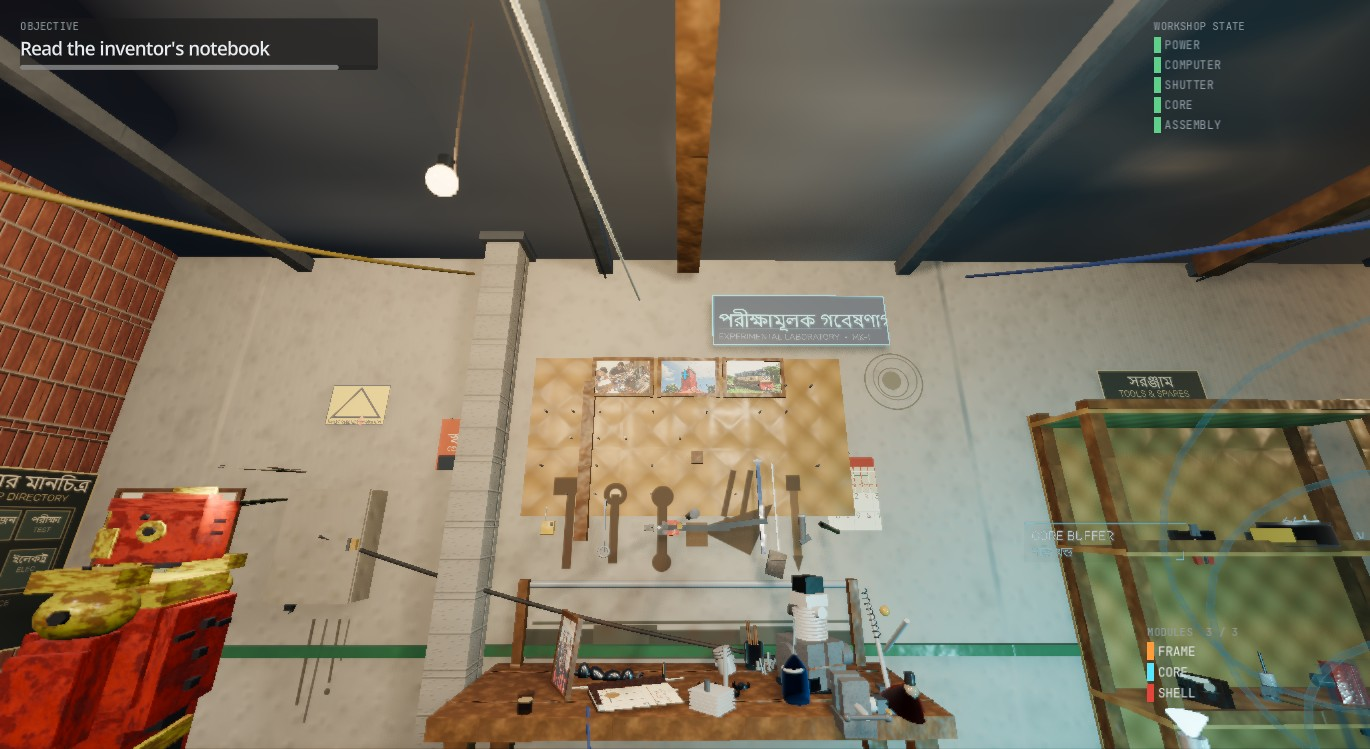
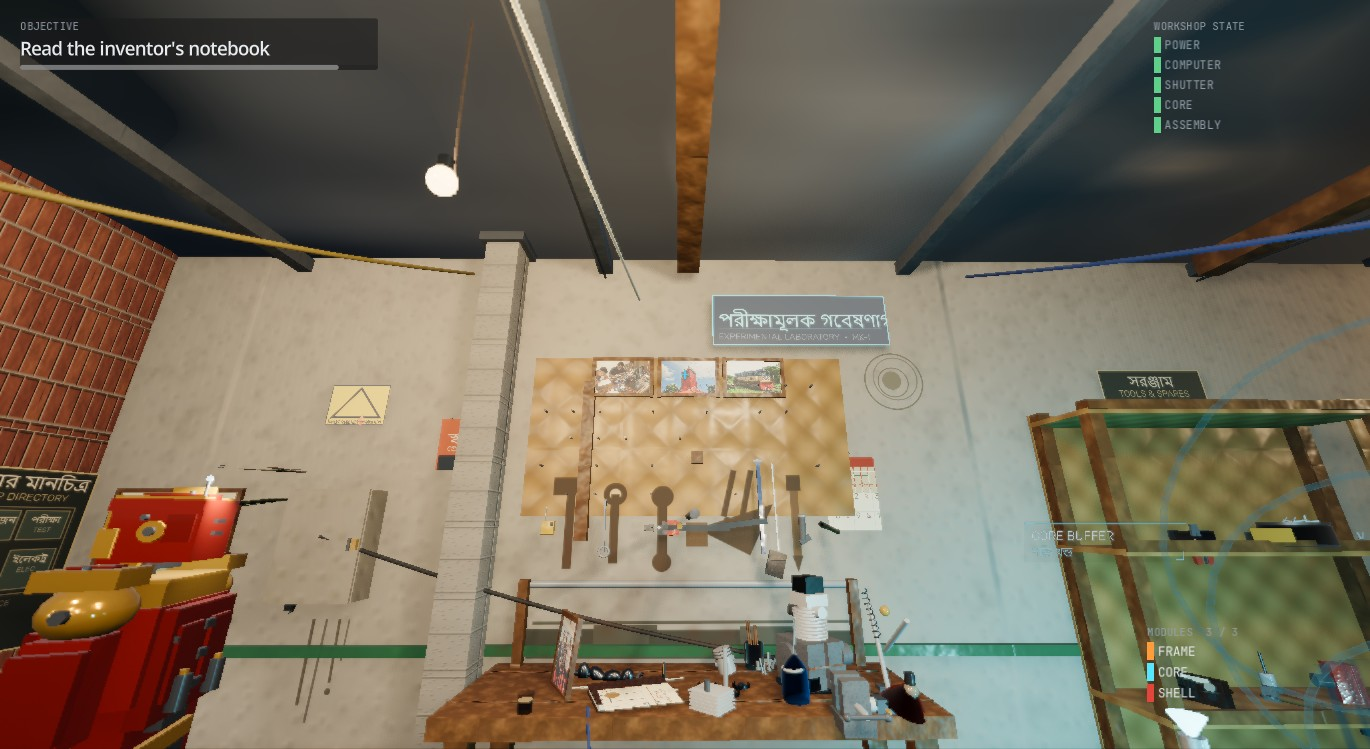
armour: detail passes two + three, and the brand-new glossy finish
The figure asked for more hardware, then for the movie look: brand new,
glossy. Both land here.

Detail passes (+67 meshes, figure 154 -> 221: legs 86 / torso 96 / head 39):
- pass two: a proud sub-panel on each thigh front, vents behind thigh and
  calf, a gold lip around the boot top; the abdomen splits into sub-panels
  under the band lines, a gold waistband over the pelvis, red insets on the
  gold collar and pauldrons, a gold collar lip, back sub-panels, a lit slit
  on each forearm ridge (SlitForearm — on the assembly's own glow ramp); a
  gold brow line split around the crown ridge, chin and jaw bolts, panels
  behind the ears
- pass three: ankle hinge blocks, lit shin dots (SlitShin, also on the
  ramp), hip pods, thigh greebles, utility pouches with studs; a tank and
  brass valve under each back panel, chest intakes, neck conduits, elbow
  end-caps, strapped arm ribs; jaw vents, crown studs, a rear antenna with
  a lit tip; the sternum line turns gold

Brand-new finish (material_library):
- armor_paint(): flat deep paint, metallic 0.6, roughness 0.2, full
  clearcoat (1.0 at 0.08) so every lamp leaves a tight highlight; only the
  paint set's normal map stays, at low scale, for surface life
- armor_dark(): polished alloy, 0.85 metallic at 0.28 roughness
- the sets' colour/roughness/AO maps stay in the repo and documented as
  part of the licensed sets; nothing on a new suit reads as use

Verification: validate 55/55; armor probe 43 OK / 0 FAIL (power-on 2.10x,
[…]

Changed region(s): [[0.0, 0.6449, 0.1839, 1.0]]

diff --git a/docs/ASSET_LICENSES.md b/docs/ASSET_LICENSES.md
@@ -16,7 +16,7 @@ imported**; texture images are runtime-synthesised except two CC0 PBR sets on th
 | Photographs (13) | The notice-wall collage, `assets/textures/wall/` | **Wikimedia Commons, CC BY-SA 4.0**, fetched through the Commons API and resized to 480 px | Every file, author and source page is listed below |
 | Photographs (10) | The two smaller boards — the streets and the working country | **Openverse (Flickr originals), CC0 / CC BY 2.0 / CC BY-SA 2.0**, fetched through the Openverse API, licence-filtered, resized to 480 px | Every file, author and source page is listed below |
 | Texture images | 34 surface sets × 3 channels = 102 images | **Synthesised at runtime** by `TextureFactory` | Original work |
-| Texture images (2 sets, 7 maps) | The armour figure's plates and underlayer, `assets/textures/armor/` | **ambientCG, CC0 1.0**, 1K JPGs resized to 512 at load | PaintedMetal009 (paint) and Metal027 (worn metal) — the sets are CC0, no attribution required, credited here anyway |
+| Texture images (2 sets, 7 maps) | The armour figure's normal detail (the sets' other maps kept in the repo), `assets/textures/armor/` | **ambientCG, CC0 1.0**, 1K JPGs resized to 512 at load | PaintedMetal009 (paint) and Metal027 (worn metal) — the sets are CC0, no attribution required, credited here anyway |
 | Supplied photograph | 1 image (127 KB) | **Provided by the project's author** — the workshop banner hung on the north wall | Author's own work, used with the author's permission |
 | Audio | every clip | **Synthesised at runtime** by `AudioSynth` | Original work; no recorded music and no musical instruments anywhere — the ambience is wind, leaves, sparrows, the street and the rain |
 | Shaders | 6 files | Written for this project | Original work |
@@ -122,19 +122,19 @@ channels — is original work and is described in `docs/GRAPHICS_ALGORITHMS.md` 
 
 The armour figure's materials are the one place where real photographs are used. Two PBR sets from
 [ambientCG](https://ambientcg.com/) — both released under **CC0 1.0** (public domain, no attribution
-required; credited here anyway) — supply the colour, roughness, normal and occlusion maps for the
-plates:
+required; credited here anyway) — supply the figure's normal-detail maps, with the sets' remaining
+maps kept in the repository:
 
 | Set | Asset | Maps used | Role on the figure |
 |---|---|---|---|
-| Paint | `PaintedMetal009` — <https://ambientcg.com/view?id=PaintedMetal009> | `armor_paint_color.jpg`, `armor_paint_rough.jpg`, `armor_paint_normal.jpg`, `armor_paint_ao.jpg` | The red painted plating (`armor_paint()`), tinted at load so the paint reads as the figure's red |
-| Worn metal | `Metal027` — <https://ambientcg.com/view?id=Metal027> | `armor_metal_color.jpg`, `armor_metal_rough.jpg`, `armor_metal_normal.jpg` | The underlayer and exposed machinery (`armor_dark()`) |
+| Paint | `PaintedMetal009` — <https://ambientcg.com/view?id=PaintedMetal009> | `armor_paint_normal.jpg` bound; `armor_paint_color.jpg`, `armor_paint_rough.jpg`, `armor_paint_ao.jpg` in the repo | The red painted plating (`armor_paint()`) — brand new off the stand: flat deep paint over a tight clearcoat, the normal map only for surface life at low scale |
+| Worn metal | `Metal027` — <https://ambientcg.com/view?id=Metal027> | `armor_metal_normal.jpg` bound; `armor_metal_color.jpg`, `armor_metal_rough.jpg` in the repo | The polished underlayer and exposed machinery (`armor_dark()`) |
 
-The realism pass binds the paint set's occlusion map on the primitives' single UV channel
-(`ao_on_uv2` off, `ao_light_affect` 0.2), keeps metallic and roughness as tuned scalars — the sets'
-metalness maps are uniform (all paint / all metal) and would carry no information — and adds a light
-clearcoat as the paint's own sheen. The downloads are 1K JPGs; each is resized to 512 px when loaded
-by `MaterialLibrary._armor_map()`
+The brand-new finish keeps the paint bold and glossy — metallic 0.6, roughness 0.2, clearcoat 1.0 at
+0.08 — so the suit catches every lamp in the room; the underlayer is polished alloy at metallic 0.85.
+The worn maps (paint colour/roughness/AO, metal colour/roughness) are part of the licensed sets but
+are not bound: nothing on a new suit should read as use. The downloads are 1K JPGs; each is resized
+to 512 px when loaded by `MaterialLibrary._armor_map()`
 (`Image.load_from_file()` + resize, no import side files — same loading path as the author's own
 photographs). If a file is missing the material falls back to its flat tint and a warning is printed,
 so the figure never renders untextured.

diff --git a/docs/PROJECT_OVERVIEW.md b/docs/PROJECT_OVERVIEW.md
@@ -155,7 +155,7 @@ recorded in `docs/ASSET_LICENSES.md`.
 | Notice wall | Thirteen community-licensed (CC BY-SA 4.0) photographs of the country — rickshaws, Sadarghat market, a Khulna tea stall, the Sylhet tea gardens, the railway, boats, paddy — pinned crooked to a plywood board on the entrance wall; every file's author and source recorded in `docs/ASSET_LICENSES.md` |
 | Faked wear | Flush overlays and chips that make the room read used: painted tool outlines on the pegboard, chalk dimension notes on the floor, tea rings and an old spill on the bench top, a six-row paper label strip on the component drawers, and a scatter of stickers — no props, no stations, no lights |
 | Sound | Every clip synthesised as PCM at load — no sound packs. Surface-aware footsteps (concrete, steel deck, packed earth), tools, servos, the shutter's chain rattle — and an instrument-free nature ambience (wind, leaves, sparrows) as the project's music, from the title screen on |
-| Armour | A whole red-and-gold armoured figure on a service base at the front of the shop — core lens and eye slits lit — its plates wearing the CC0 painted-metal photo sets and a realism pass of bolts, panel lines, vents and a studded core bezel; procedurally built, deliberately unbranded, built in three pickable assemblies (see Presentation) |
+| Armour | A whole red-and-gold armoured figure on a service base at the front of the shop — core lens and eye slits lit — finished brand new off the stand (deep gloss paint under a tight clearcoat, polished alloy underlayer) with a realism pass of bolts, panel lines, vents, lit slits and a studded core bezel; procedurally built, deliberately unbranded, built in three pickable assemblies (see Presentation) |
 | Global gloss | Surface gloss is per material family, not one global number: masonry and earth stay matte, the sealed concrete floor is lightly polished, varnished wood and paint are glossy, bare metal most of all - and the SSAO runs wider and heavier so contact shadows hold the room together |
 | Wayfinding | Painted stencils on the floor name all four bays, placards cap the two storage shelves, and an entrance directory board carries a mini floor plan - the shop reads as five organised areas, not one crowded room |
 | Weather | The yard runs a slow rain cycle - rain, after-rain, dry, drizzle. The shared concrete slab wets with the rain (roughness and albedo move as one uniform, dry 0.62 to 0.41) and dries as the machine parks dry; the capture harness pins it dry so verification shots stay deterministic |

diff --git a/README.md b/README.md
@@ -241,10 +241,11 @@ geometry, not asserted in text.
   concrete floor is lightly polished, varnished wood and paint are glossy, bare metal most of all, and
   the SSAO is tuned a touch wider and heavier so contact shadows hold the room together.
 - **A house armour project.** A whole red-and-gold armoured figure on a service base at the front
-  of the shop — core lens and eye slits lit, its plates wearing the CC0 painted-metal photo sets
-  and a realism pass of bolts, panel lines, vents and a studded core bezel. Procedurally built,
-  deliberately unbranded, and every assembly individually pickable with the mouse (as are the
-  prototype suit's own parts, one by one).
+  of the shop — core lens and eye slits lit, finished brand new off the stand: deep flat paint
+  under a tight clearcoat that catches every lamp, over a realism pass of bolts, panel lines,
+  vents, lit slits and a studded core bezel. Procedurally built, deliberately unbranded, and
+  every assembly individually pickable with the mouse (as are the prototype suit's own parts,
+  one by one).
 
 ### Geometry
 
